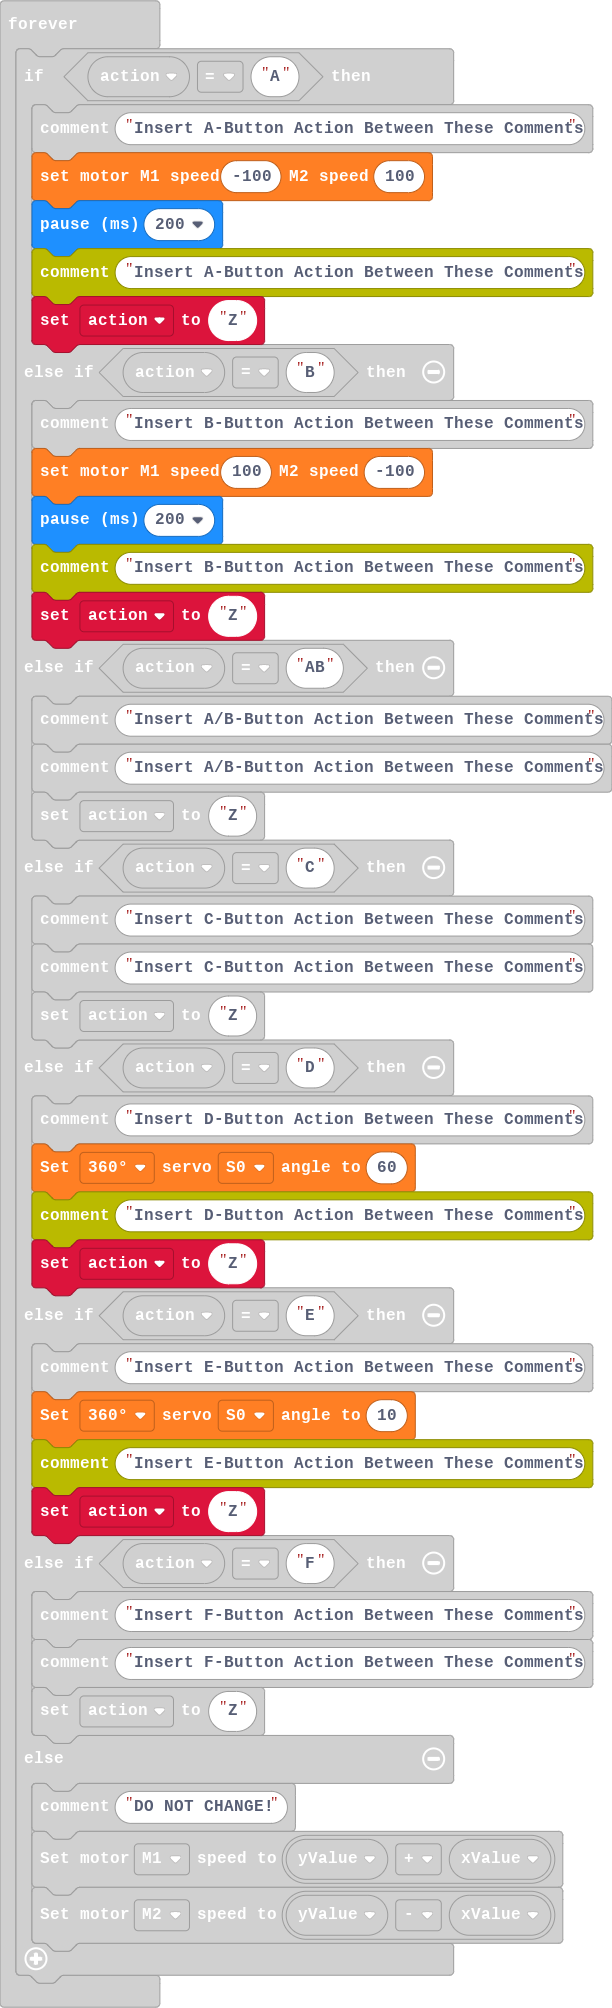
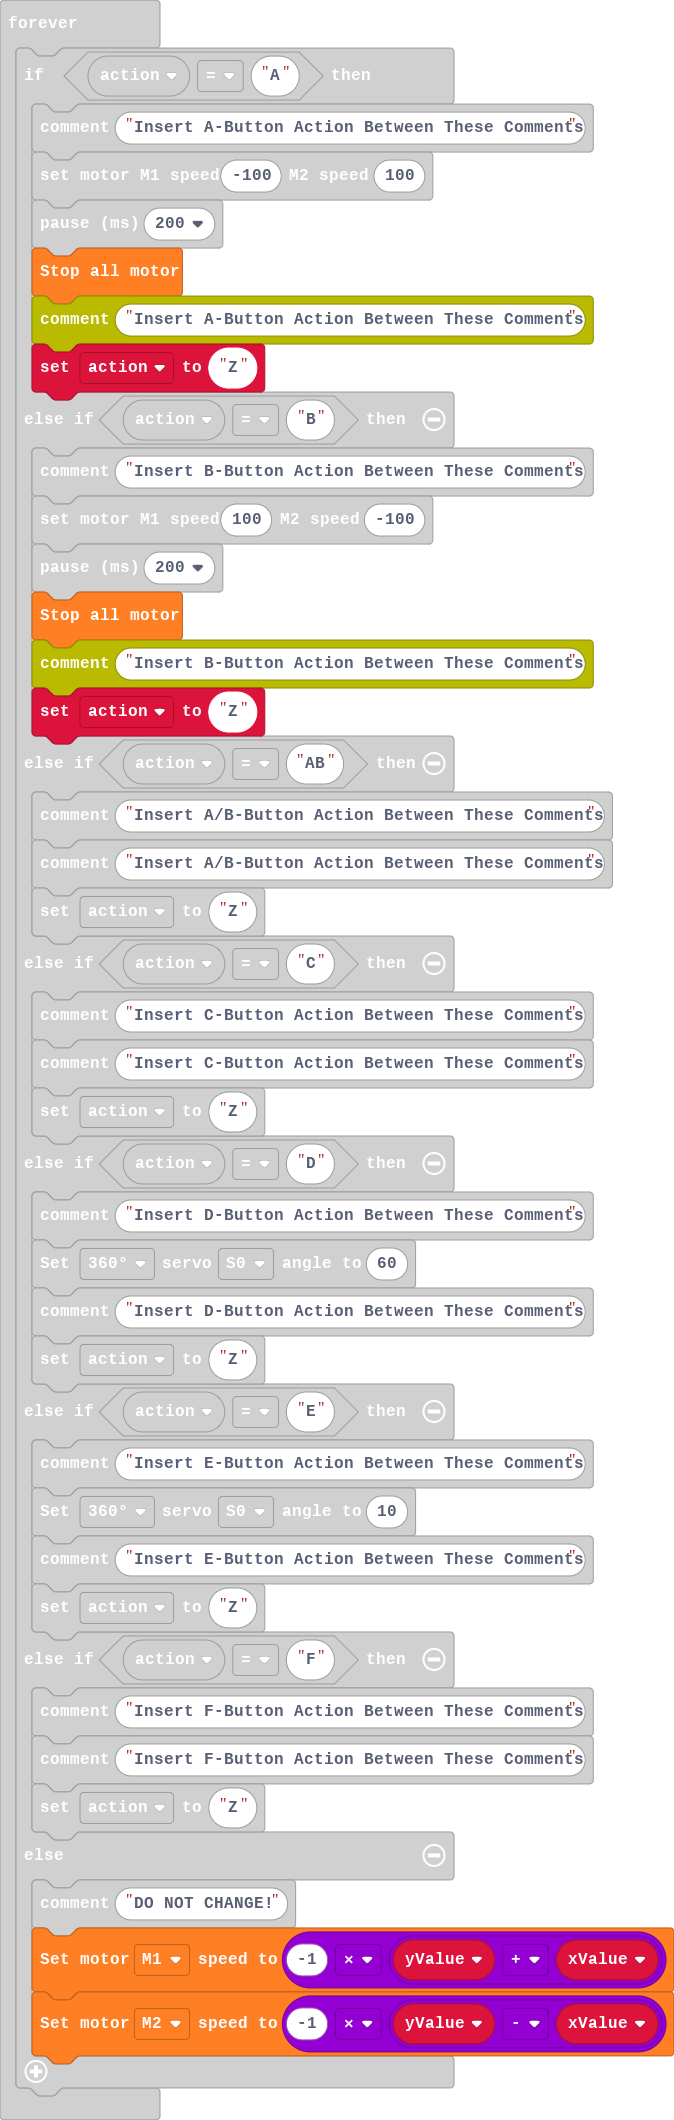
Update main.blocks, main.ts

diff --git a/main.ts b/main.ts
@@ -40,12 +40,14 @@ basic.forever(function () {
         comment.comment("Insert A-Button Action Between These Comments")
         wuKong.setAllMotor(-100, 100)
         basic.pause(200)
+        wuKong.stopAllMotor()
         comment.comment("Insert A-Button Action Between These Comments")
         action = "Z"
     } else if (action == "B") {
         comment.comment("Insert B-Button Action Between These Comments")
         wuKong.setAllMotor(100, -100)
         basic.pause(200)
+        wuKong.stopAllMotor()
         comment.comment("Insert B-Button Action Between These Comments")
         action = "Z"
     } else if (action == "AB") {
@@ -72,7 +74,7 @@ basic.forever(function () {
         action = "Z"
     } else {
         comment.comment("DO NOT CHANGE!")
-        wuKong.setMotorSpeed(wuKong.MotorList.M1, yValue + xValue)
-        wuKong.setMotorSpeed(wuKong.MotorList.M2, yValue - xValue)
+        wuKong.setMotorSpeed(wuKong.MotorList.M1, -1 * (yValue + xValue))
+        wuKong.setMotorSpeed(wuKong.MotorList.M2, -1 * (yValue - xValue))
     }
 })
